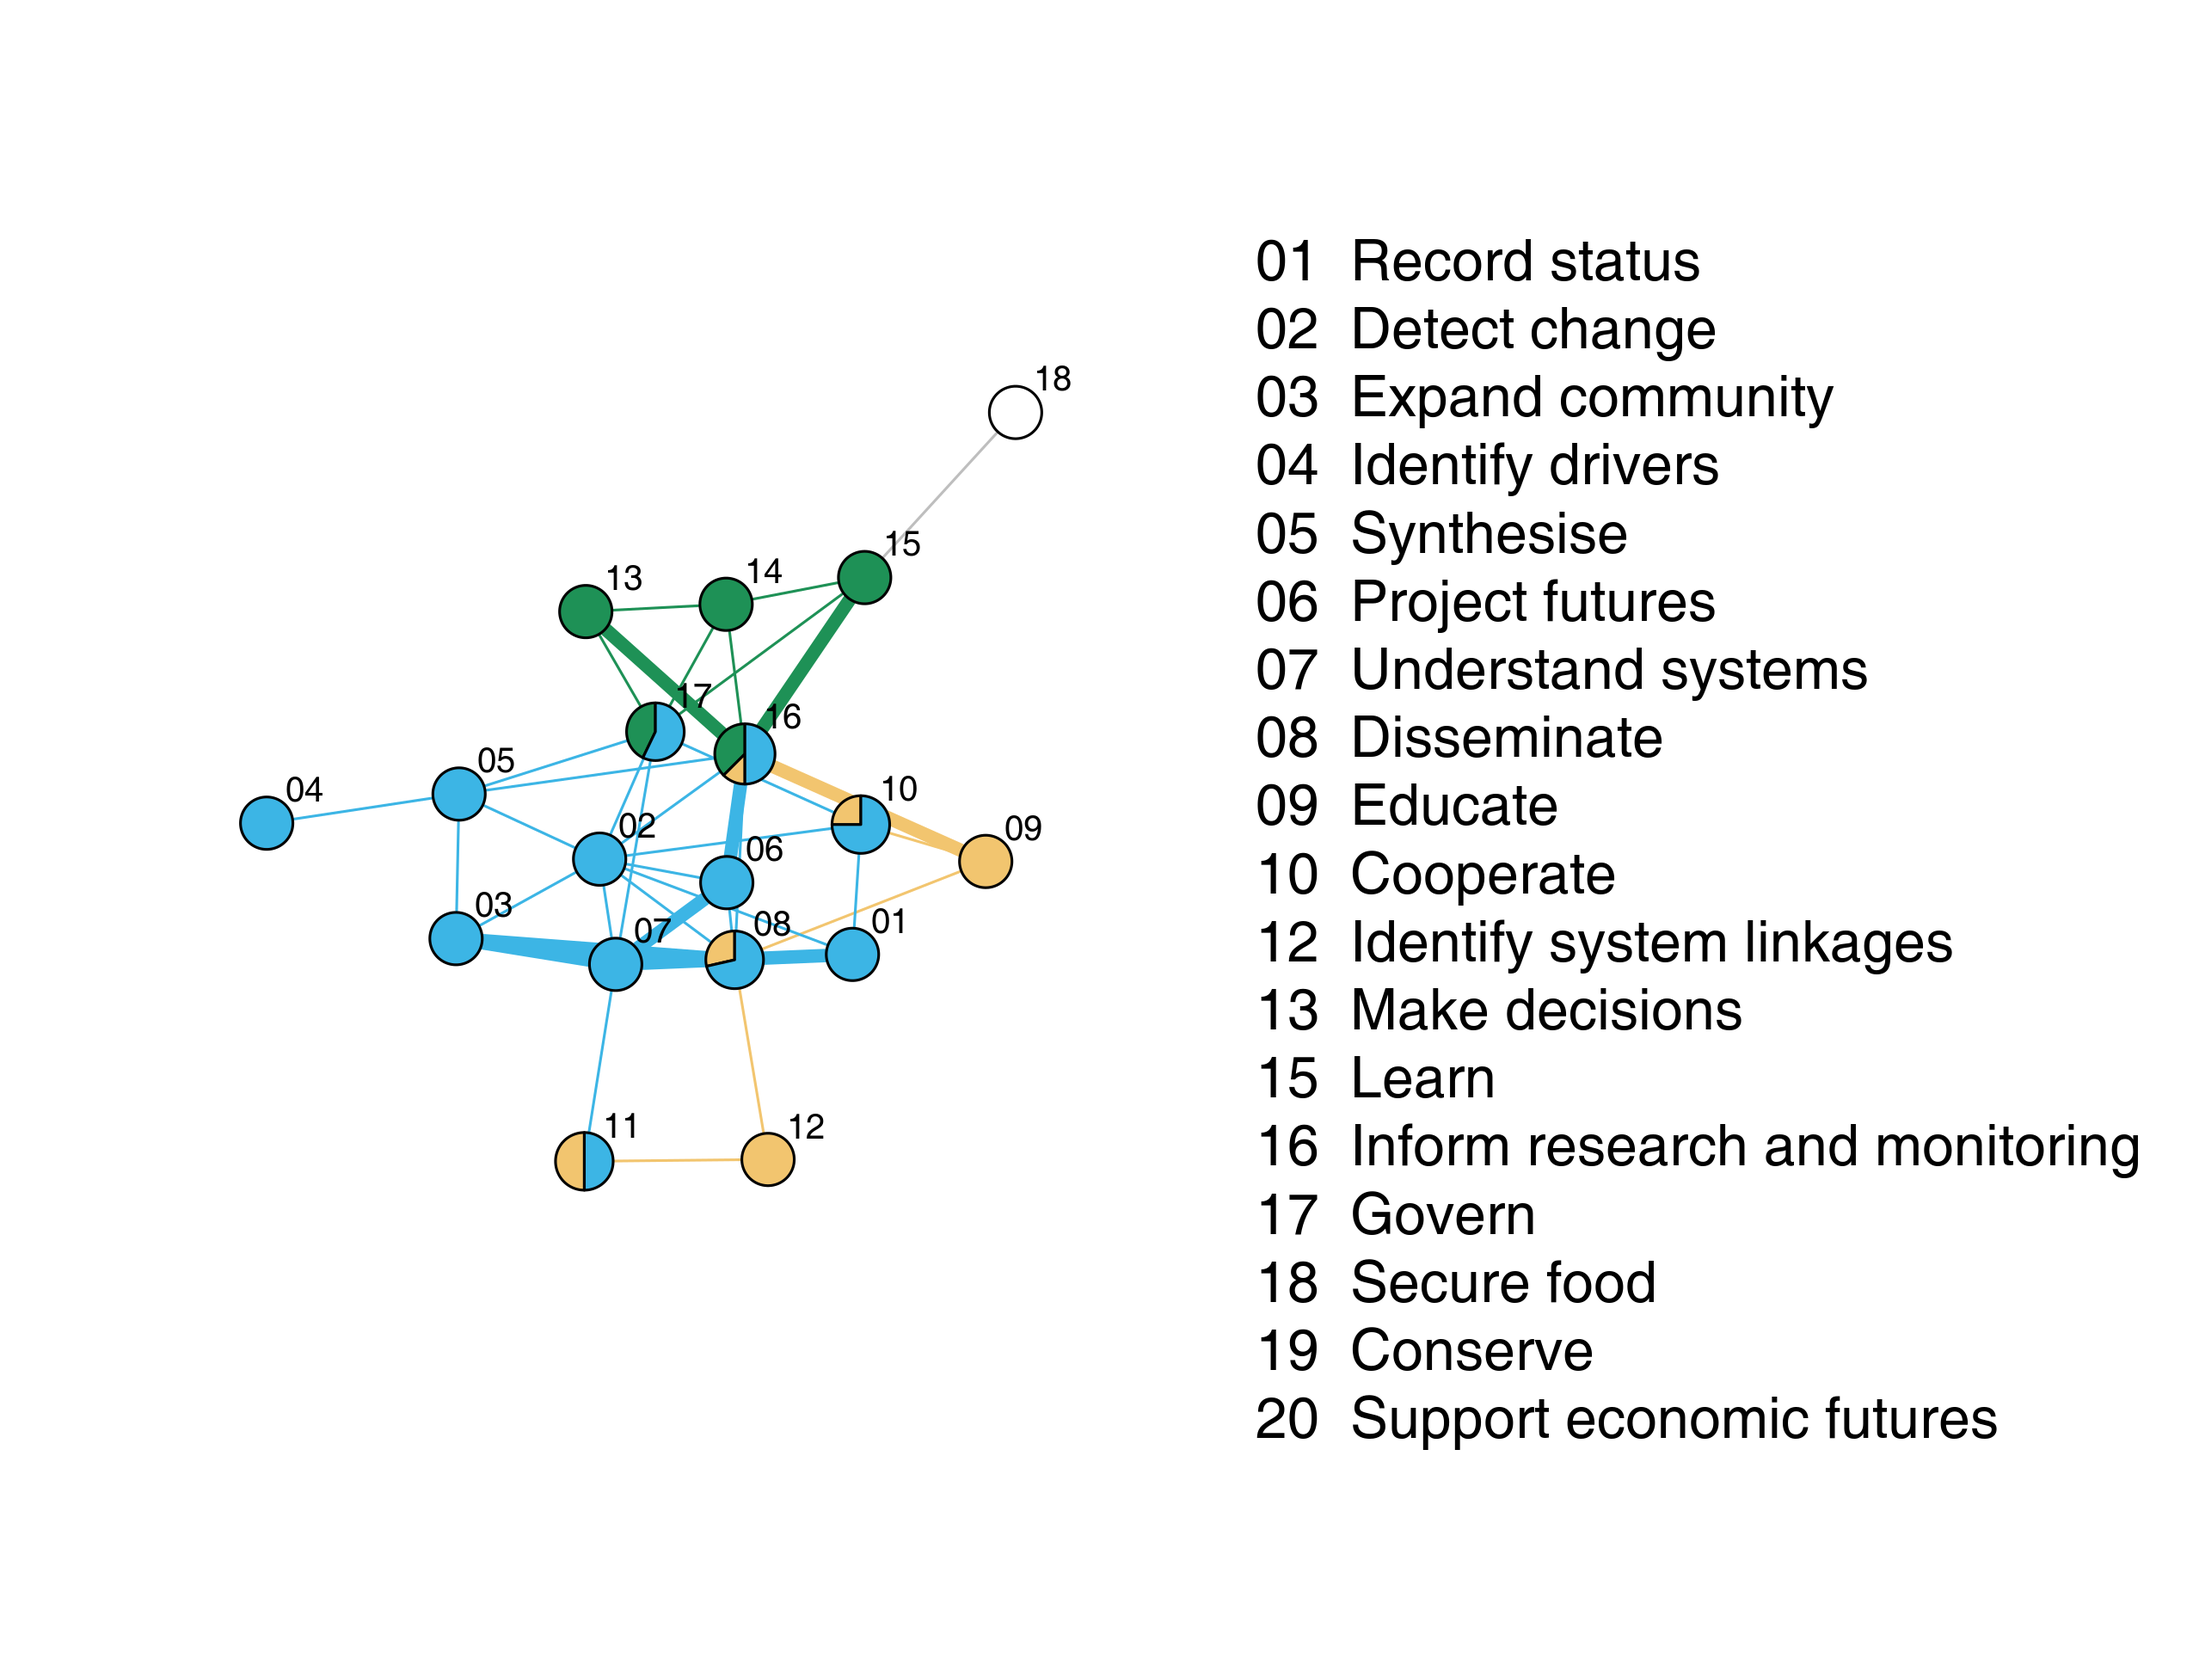
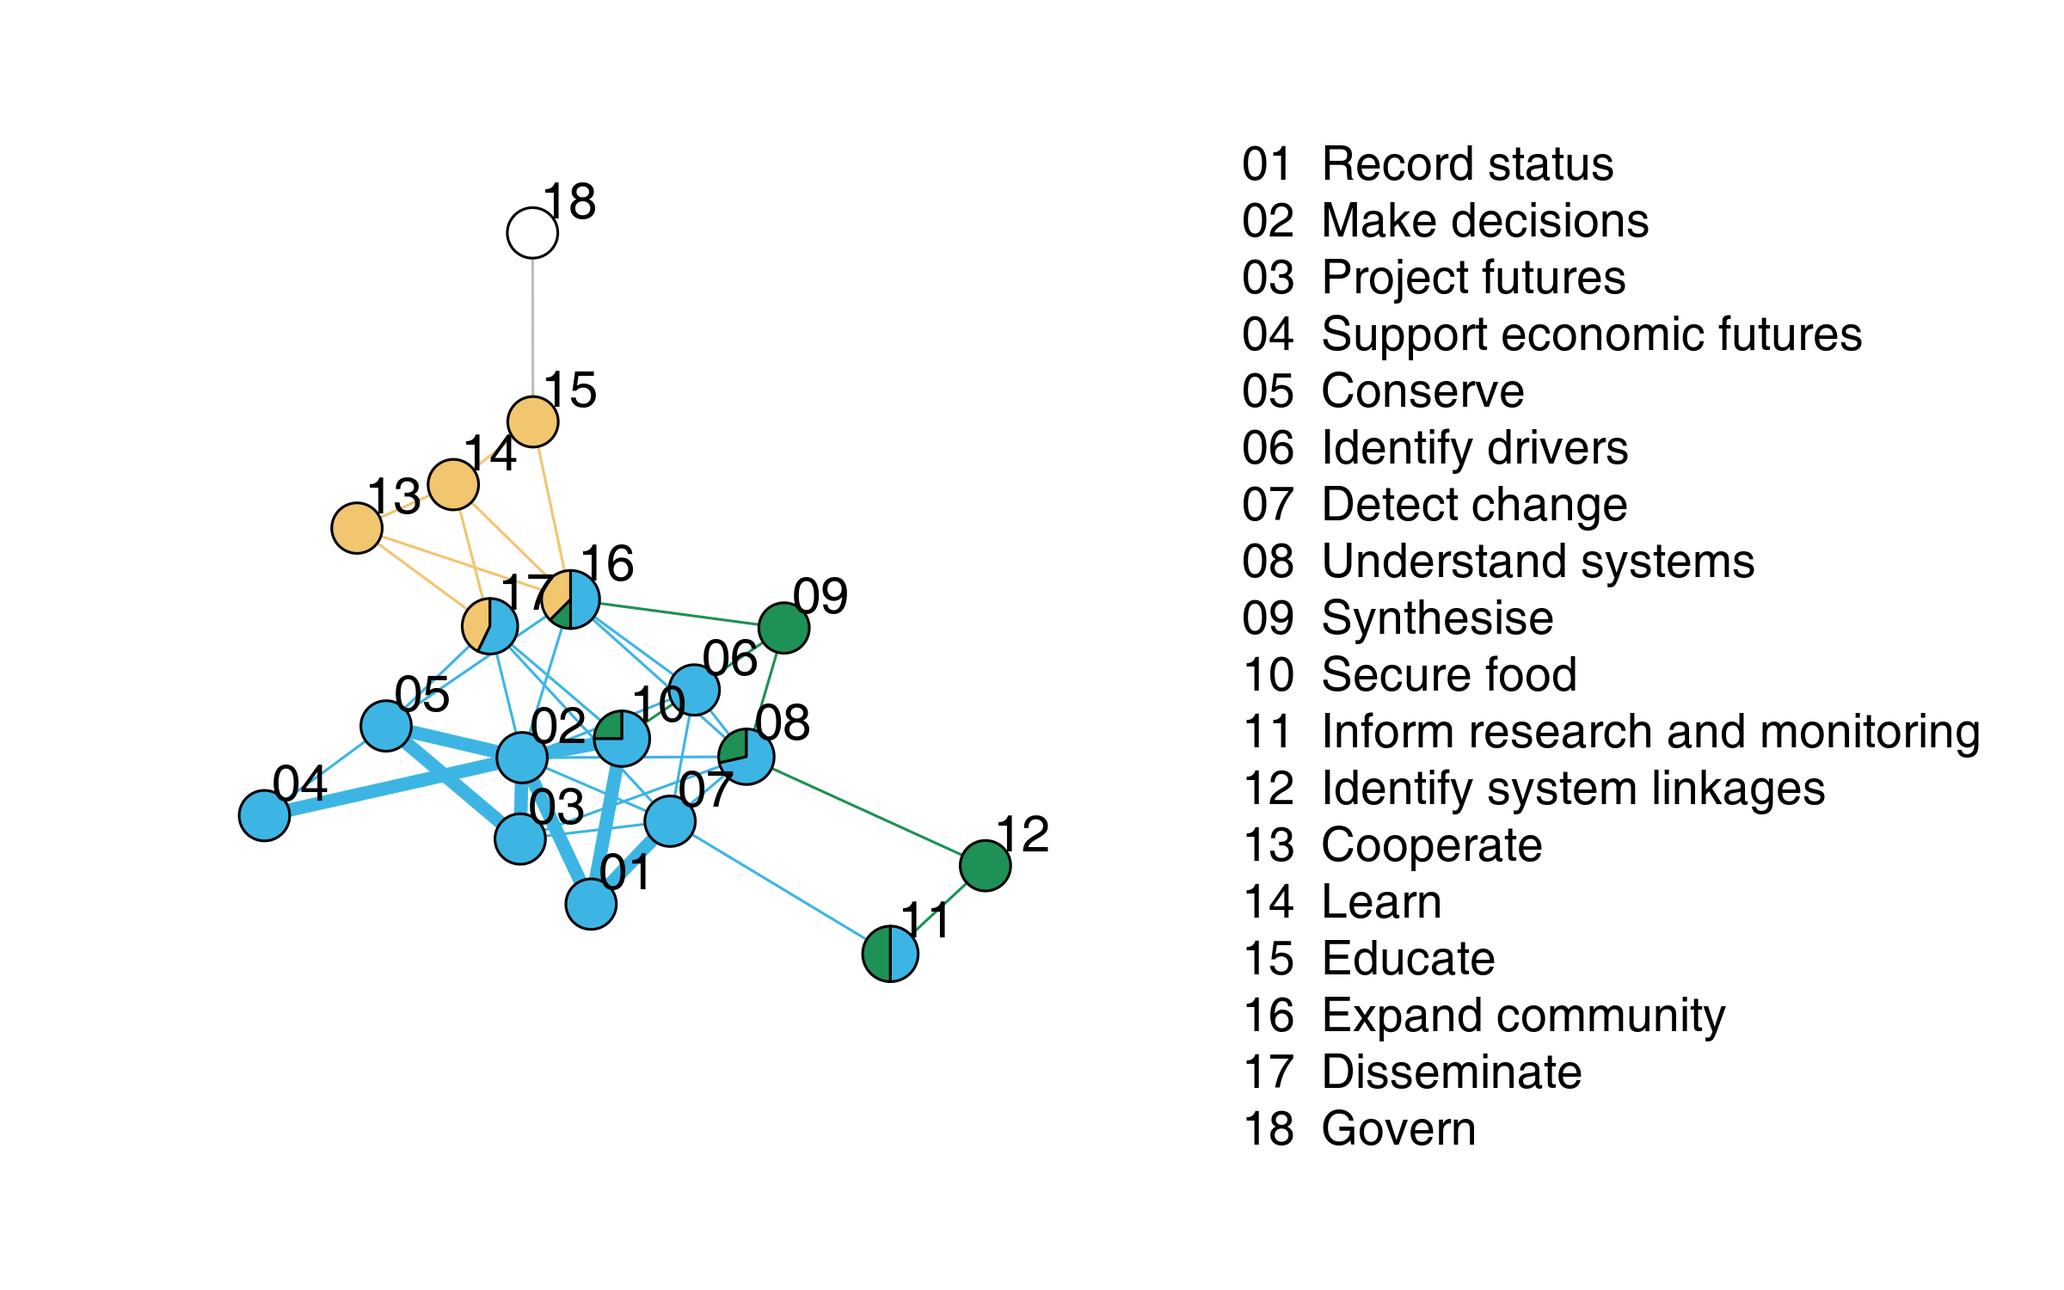
adjust fig 3

diff --git a/README.md b/README.md
@@ -106,25 +106,26 @@ dev.off()
 
 ![](inst/fig/fig2c.png)
 
+
 ### Figure 3
 
 ```R
-set.seed(102)
+set.seed(2)
 data(links2)
 data(nodes2)
-vec_names <- sort(gsub(paste0(nodes2[,5L], "  ", nodes2[,2L]), pattern= "^n", replacement = ""))
-png("inst/fig/fig3.png", units="in", res=300, width=8.5, heigh=6.5)
+vec_names <- sort(gsub(paste0(nodes2[,1L], "  ", nodes2[,2L]), pattern= "^n", replacement = ""))
+png("inst/fig/fig3.png", units = "in", res = 300, width = 8,  height = 5)
   edge_clustering(links2, vec_names, vec_col)
 dev.off()
+set.seed(2)
 ## SVG
-CairoSVG("inst/fig/fig3.svg", width=8.5, heigh=6.5)
+CairoSVG("inst/fig/fig3.svg", width = 8, heigh = 5)
   edge_clustering(links2, vec_names, vec_col)
 dev.off()
 ```
 
-
-
 ![](inst/fig/fig3.png)
+
 
 
 ### Figure S3
